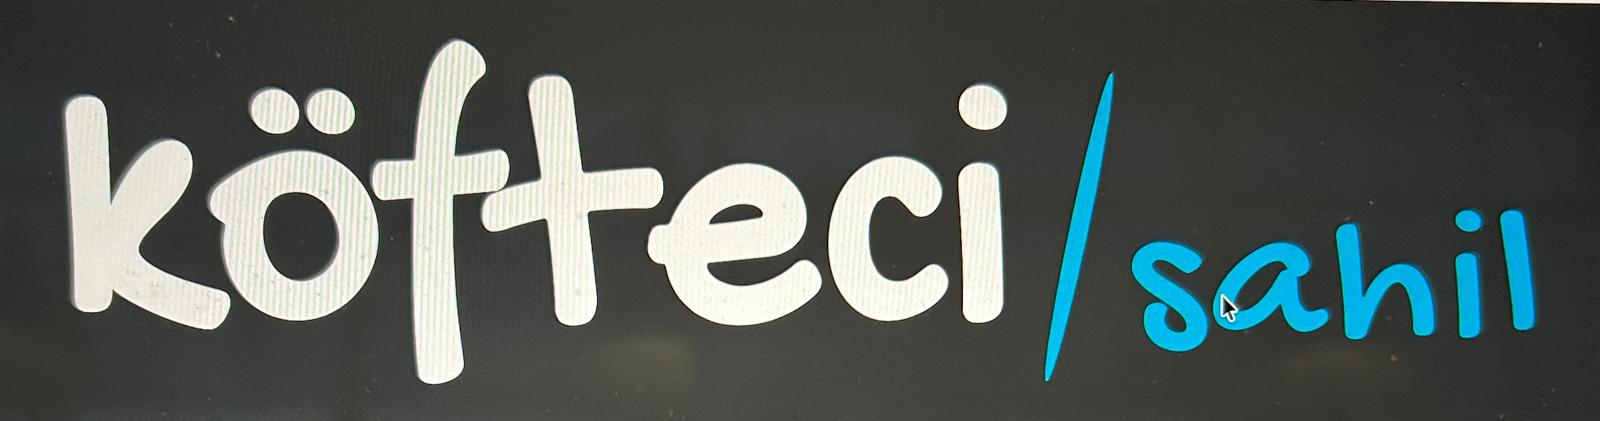
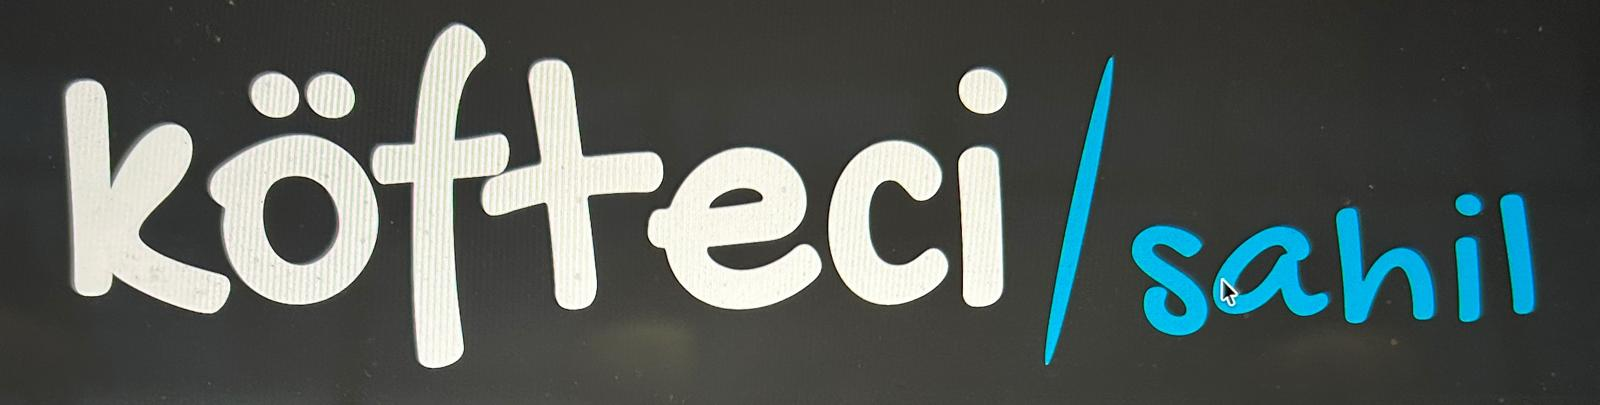
Tabela görseli güncellendi, kırpma kaldırıldı

diff --git a/index.html b/index.html
@@ -27,14 +27,12 @@
             width: 100%;
             max-width: 420px;
             padding: 32px 0 24px;
-            overflow: hidden;
         }
 
         .header-logo img {
             width: 100%;
             height: auto;
             display: block;
-            margin-top: -8%;
         }
 
         .menu-card {
